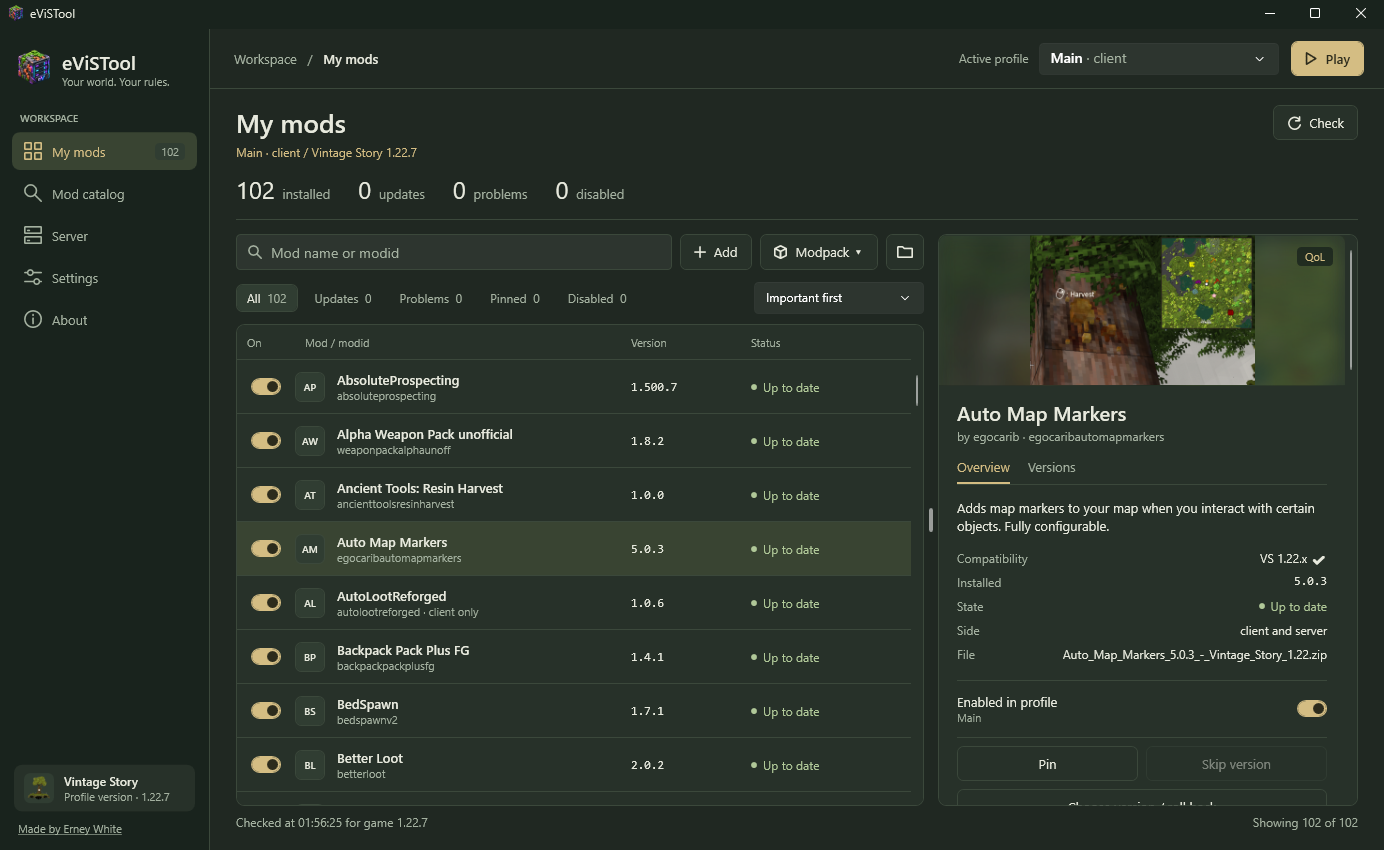
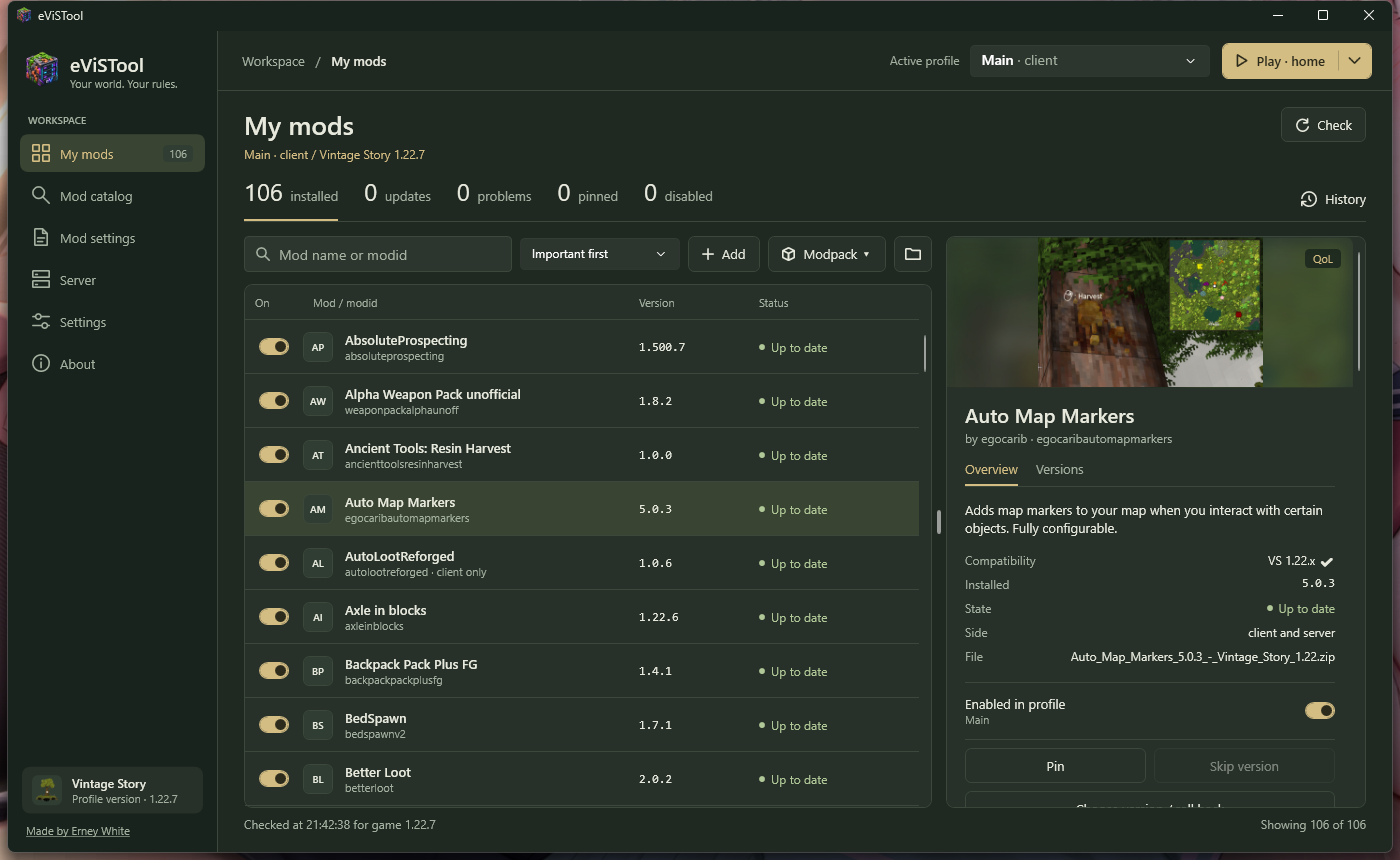
Версия 0.10.2: README (история модов, вкладки-счётчики, объявления по времени, время по своим часам, расход в статистике), скриншоты «Моих модов» и истории, список изменений и описание для ModDB

diff --git a/docs/moddb/description.html b/docs/moddb/description.html
@@ -6,6 +6,7 @@
 
 <h2>Your mods</h2>
 <p>Hit <strong>Check</strong> and you'll see which mods have updates. Update one or all of them in one go. If an update breaks something, roll back to the version you had before &mdash; eViSTool keeps the old files around for exactly that. You can pin a mod to its current version or skip one particular release you don't want.</p>
+<p>The <strong>History</strong> tab shows what changed in your mods and when, grouped by game launch. Updated five mods this morning and something broke? <strong>Roll back this session</strong> puts all five back to the versions you had yesterday &mdash; from the saved copies or straight from the ModDB.</p>
 <p>It also warns you about the usual headaches before they bite: a missing or outdated dependency (one button fixes it), a duplicate mod, a version made for another game branch, a mod that needs a newer game than you have. And if you keep a separate mod set for a server, it tells you which mods are client-only and don't belong there.</p>
 <p>Want to share your setup with a friend? Save it as a modpack and send them one file.</p>
 <p>Before mods change, eViSTool quietly copies the single-player worlds you played since the last copy. If an update breaks a world, put the copy back with one button.</p>
@@ -65,7 +66,7 @@
 <p>Я играю в Vintage Story с кучей модов и держу небольшой сервер для друзей. Надоело проверять обновления каждого мода руками, таскать zip-файлы туда-сюда и лезть на сервер ради перезапуска, поэтому я сделал <strong>eViSTool</strong>. Это одно окно, где можно обновлять моды, ставить новые с модбазы и присматривать за своим выделенным сервером.</p>
 <p>Программа бесплатная, с открытым кодом и портативная: распаковал в любую папку и запустил. Интерфейс полностью на русском.</p>
 <ul>
-<li><strong>Моды:</strong> одна кнопка проверяет обновления, можно обновить всё разом, а если что-то сломалось &mdash; откатиться на прежнюю версию. Программа заранее подскажет про нехватку зависимостей (чинится одной кнопкой), дубликаты и версии не для твоей игры. Своим набором можно поделиться модпаком.</li>
+<li><strong>Моды:</strong> одна кнопка проверяет обновления, можно обновить всё разом, а если что-то сломалось &mdash; откатиться на прежнюю версию. Вкладка «История» показывает, что и когда менялось, по запускам игры, и откатывает весь сеанс разом. Программа заранее подскажет про нехватку зависимостей (чинится одной кнопкой), дубликаты и версии не для твоей игры. Своим набором можно поделиться модпаком.</li>
 <li><strong>Каталог модбазы</strong> прямо в программе: поиск, фильтры, скриншоты, установка в один клик.</li>
 <li><strong>Настройки модов</strong> без ручной правки JSON: форма с переключателями и полями, проверка значений, «Вернуть предыдущую версию» и «Сбросить к стандартным». Работает и для сервера на другом компьютере.</li>
 <li><strong>Копии миров:</strong> перед изменением модов программа копирует одиночные миры, в которые играли, — испортило обновление мир, вернул копию одной кнопкой.</li>

diff --git a/README.md b/README.md
@@ -122,8 +122,8 @@ its data folder to the Recycle Bin — nothing is deleted without asking.
 
 ## My mods
 
-Everything installed in the active profile: name, version, side and status. The counters on top and the chips above the table
-filter the list — updates, problems, pinned, disabled. Click a mod to open its card on the right: description and screenshots
+Everything installed in the active profile: name, version, side and status. The counters on top are also the filters:
+installed, updates, problems, pinned, disabled (and, in a server profile, client-only mods it does not need). Click a mod to open its card on the right: description and screenshots
 from the ModDB, compatibility, file, and all actions for it.
 
 **Check** asks the ModDB about every installed mod (it can also run on start — see **Settings**). The status shows the result:
@@ -139,6 +139,18 @@ from the ModDB, compatibility, file, and all actions for it.
 **Updating.** **Update** on a mod, or **Update all**. Installs go through a queue at the bottom of the window:
 you can keep working, add more, stop the queue and retry failed items.
 Replaced versions are kept (the last three per mod), so any update can be undone.
+
+**History.** The **History** tab at the end of the counters shows what changed in the profile's mods and when.
+One line is everything changed between two launches of the game (or the server): "5 mods updated, 1 mod installed",
+with the versions before and after, where it came from (**Update all**, the catalog, a modpack, a scheduled restart…)
+and before which launch. If something broke after an update, **Roll back this session** returns every mod of that line
+to the version it had before: updated mods go back, new ones are removed, removed ones are put back. A single mod can be
+restored too. The old version comes from the saved copies, and if there is none, it is downloaded from the ModDB.
+A rollback is a line of its own, so it can be undone as well. A server's history is kept by its agent, so scheduled
+mod updates made with the window closed are there too. The history covers 30 days, and the last three sessions are kept
+longer. The **Versions** tab of a mod's card lists what was done with that mod.
+
+![Mod history](docs/screenshots/history.png)
 
 **Choose version / roll back** installs any release for your game version from the ModDB, or a saved copy of
 a version you had before. **Pin** keeps a mod on its current version (no updates are offered);
@@ -274,7 +286,8 @@ so changes can be saved only while it is stopped. A copy of the previous file st
   If the folder is unreachable, the copy stays on the server, you get a notification, and next time it moves along with
   the new one. The list, rotation and restore see both folders. The agent opens a network folder as the Windows user
   it runs as; write access is checked as soon as you pick the folder.
-- **Scheduled restarts** every N hours of uptime or at set times of day, with chat warnings
+- **Scheduled restarts** every N hours of uptime or at set times of day (typed by your own clock, even if the server
+  computer lives in another time zone), with chat warnings
   (10 and 5 minutes before, then every minute) and, if you like, a fresh backup right before the restart.
   With **Update mods on restart** on, the agent installs released mod updates while the server is stopped.
   Pinned mods and skipped versions are left alone, and what was updated is written to the console.
@@ -297,13 +310,14 @@ so you will most likely need to add your friends there.
 **Statistics.** Turned on with the **Collect statistics** switch, off by default. Once a minute the agent records how many
 players are online and how much memory and CPU the server uses, plus joins and leaves, starts and crashes. It is kept for
 30 days on the server computer, about a megabyte a month. The tab shows totals for a day, a week or 30 days: time played
-by everyone, peak online, how long the server was running, crashes. Below are charts of online players and server load
+by everyone, peak online, how long the server was running, crashes, and the server's memory and CPU, average and peak
+(counted only while it was running). Below are charts of online players and server load
 (hover to see exact values) and a players table: how long each played, how many sessions, and when they were last seen.
 
 ![Statistics](docs/screenshots/stats.png)
 
-**Announcements.** Chat messages on a schedule: server rules, a Discord link, the restart time. Each has its own interval
-in minutes and a switch. The agent sends them, so the window can be closed. By default an empty server stays quiet, and a player
+**Announcements.** Chat messages on a schedule: server rules, a Discord link, the restart time. Each goes out on its own
+interval in minutes or at set times every day ("Maintenance in 15 minutes" at 12:00), by your clock, and has a switch. The agent sends them, so the window can be closed. By default an empty server stays quiet, and a player
 who joins does not get a pile of queued messages. There is also **Say now** — a one-off message to everyone on the server.
 
 ![Announcements](docs/screenshots/announcements.png)
@@ -419,7 +433,8 @@ Good to know:
 - The `eViSTool-<version>-linux-x64.tar.gz` archive is in [Releases](https://github.com/erneywhite/eViSTool/releases); the same files as a zip are there and on the [ModDB page for Linux](https://mods.vintagestory.at/evistoollinux) (unpack with `sudo unzip … -d /home/vintagestory/evistool`).
   The agent doesn't need .NET, it ships with its own runtime. Tested on Ubuntu Server 24.04.
 - The agent is updated with **Update on the server** from the Windows window; systemd starts the new version by itself.
-- Scheduled restart times follow the server machine's clock. If it runs in another time zone, the window tells you.
+- Scheduled restart and announcement times are typed by your own clock; the window converts them to the server's
+  and shows what that is there.
 
 The full guide, with day-to-day commands, logs and uninstalling, is in [eViSTool on a Linux server](docs/linux.md).
 Which files the agent keeps and what's in them: [Configuration files](docs/config.md).
